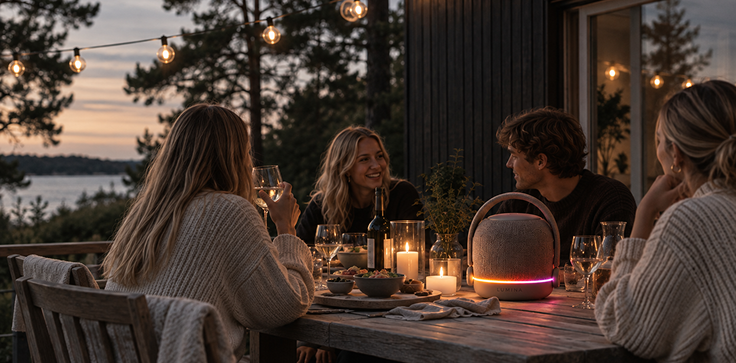
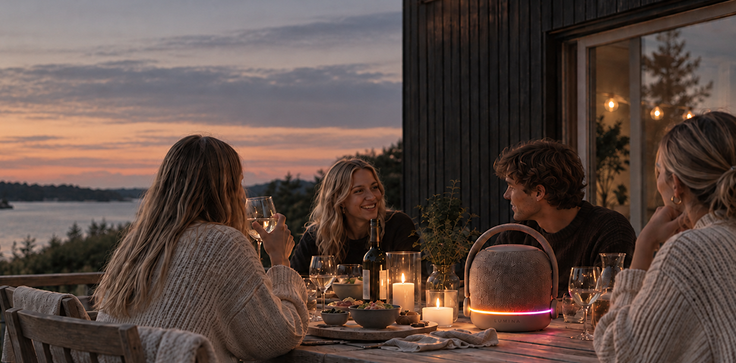
adjusted overlay position in light section

diff --git a/index.html b/index.html
@@ -205,12 +205,12 @@ tekst her
                 <div class="light_row">
                     <div class="party_box">
                         <img src="img/light_party.png" alt="LUMINA ONE in party environment">
-                        <img src="img/text_party.svg" alt="Party" class="light_overlay">
+                        <img src="img/text_party.svg" alt="Party" class="light_overlay party_overlay">
                     </div>
 
                     <div class="party_box">
                         <img src="img/light_sunset.png" alt="LUMINA ONE in sunset environment">
-                        <img src="img/text_sunset.svg" alt="Sunset" class="light_overlay">
+                        <img src="img/text_sunset.svg" alt="Sunset" class="light_overlay party_overlay">
                     </div>
                 </div>
             </div>

diff --git a/css/style.css b/css/style.css
@@ -245,14 +245,6 @@ background-color: #EDE7E0;
 
 .light_overlay {
     position: absolute;
-    top: 15px; 
-    left: 20px; 
-    max-width: 180px;  
-    min-width: 120px;   
-    height: auto;
-    z-index: 10;
-    pointer-events: none;
-    justify-self: left;
 }
 
 
